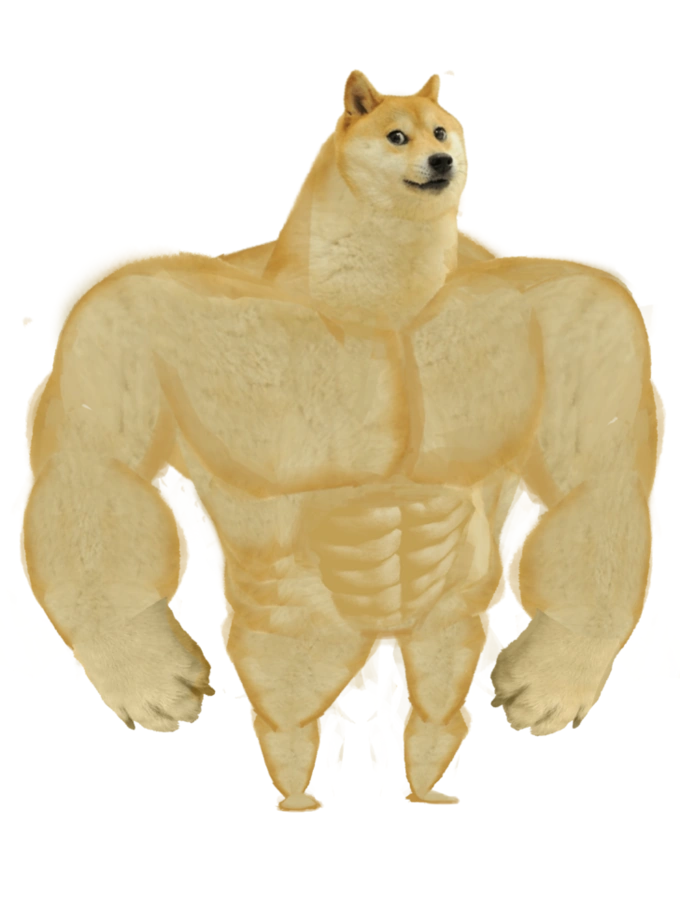
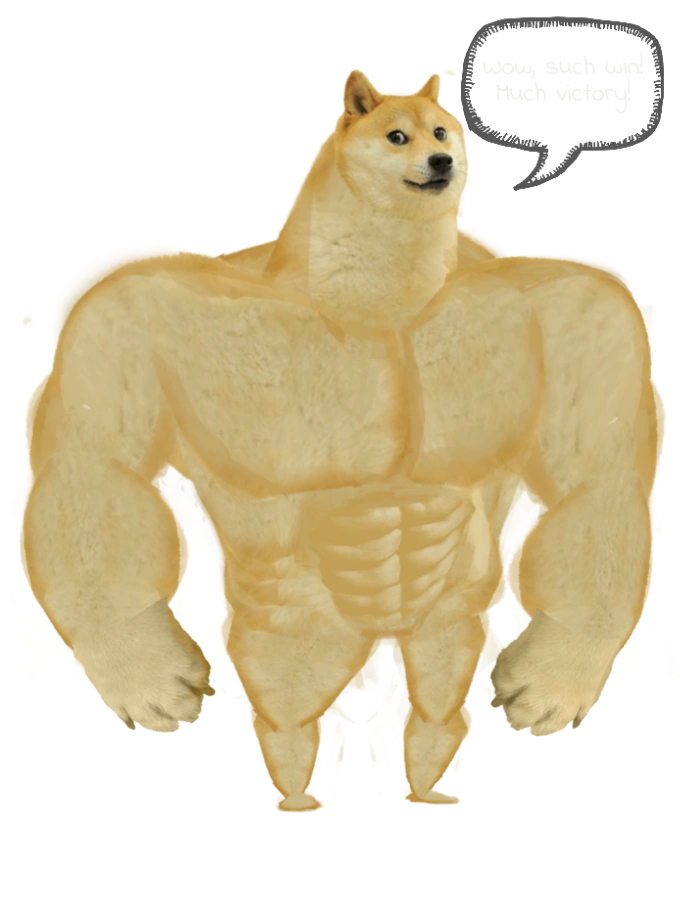
adjusted doge image to include speech bubble and corrected sizing

Changed region(s): [[0.6794, 0.0, 0.9882, 0.2126]]

diff --git a/numGenScript.js b/numGenScript.js
@@ -49,8 +49,6 @@ window.onload = function () {
     restartButton.disabled = false;
     enableAllSlots();
     celebration.style.display="block";   
-    canvas.style.display="block";
-
 
 
   });
@@ -76,9 +74,6 @@ window.onload = function () {
       restartButton.disabled = true;
       celebration.style.display="none";
       canvas.style.display="none";
-
-
-
       }
 
       restartButtonOperation();
@@ -156,12 +151,13 @@ function disableAllSlots() {
       return;
   }
 
-      let newRandomNumber = Math.floor(Math.random() * 1000) + 1;
+      let newRandomNumber = Math.floor(Math.random() * 10) + 1;
   
 
       if (holdingList.includes(newRandomNumber)){
       console.log("Duplicate number, rerunning function");
       generateRandomNumber();
+
     }
 
     else{
@@ -336,6 +332,8 @@ function disableAllSlots() {
             numberPlaceholder.innerText = "You have won!";
             winVar++;
             statsTextWin.innerText = "Wins: " + winVar;
+            celebration.style.display="block";   
+            canvas.style.display="block";
 
         } 
     } else {

diff --git a/numGenStyle.css b/numGenStyle.css
@@ -117,7 +117,7 @@ body, html{
     background-repeat: no-repeat;
     background-size: cover;
     width: 100%;
-    height: 662px;
+    height: 100vh; 
 }
 
 
@@ -253,23 +253,24 @@ button:hover {
 .buffDogeDiv{
     position: absolute;
     transform: translate(-50%, -50%);
-    top:  30%;
+    top:  90%;
     left: 50%;
     opacity: 1; 
     animation: slideInAnimation 1s forwards; 
 
 }
 #buffDogeImg{
-    width: 200px;
-    height:300px;
+    width: 350px;
+    height:450px;
 }
+
 
 @keyframes slideInAnimation {
     0% {
         top: -300px; /* Move the image above the screen */
     }
     100% {
-        top: 30%; /* Move the image to the desired position */
+        top: 40%; /* Move the image to the desired position */
     }
 }
 

diff --git a/indexNumberGen.html b/indexNumberGen.html
@@ -103,6 +103,7 @@
         <img id="buffDogeImg" src="/Users/sagecole0/Desktop/NumberGenWeb/images/buffDoge.png" alt="Buff doge image.">
     </div>
 
+
     </div>
 
     <canvas id="canvas"></canvas>
